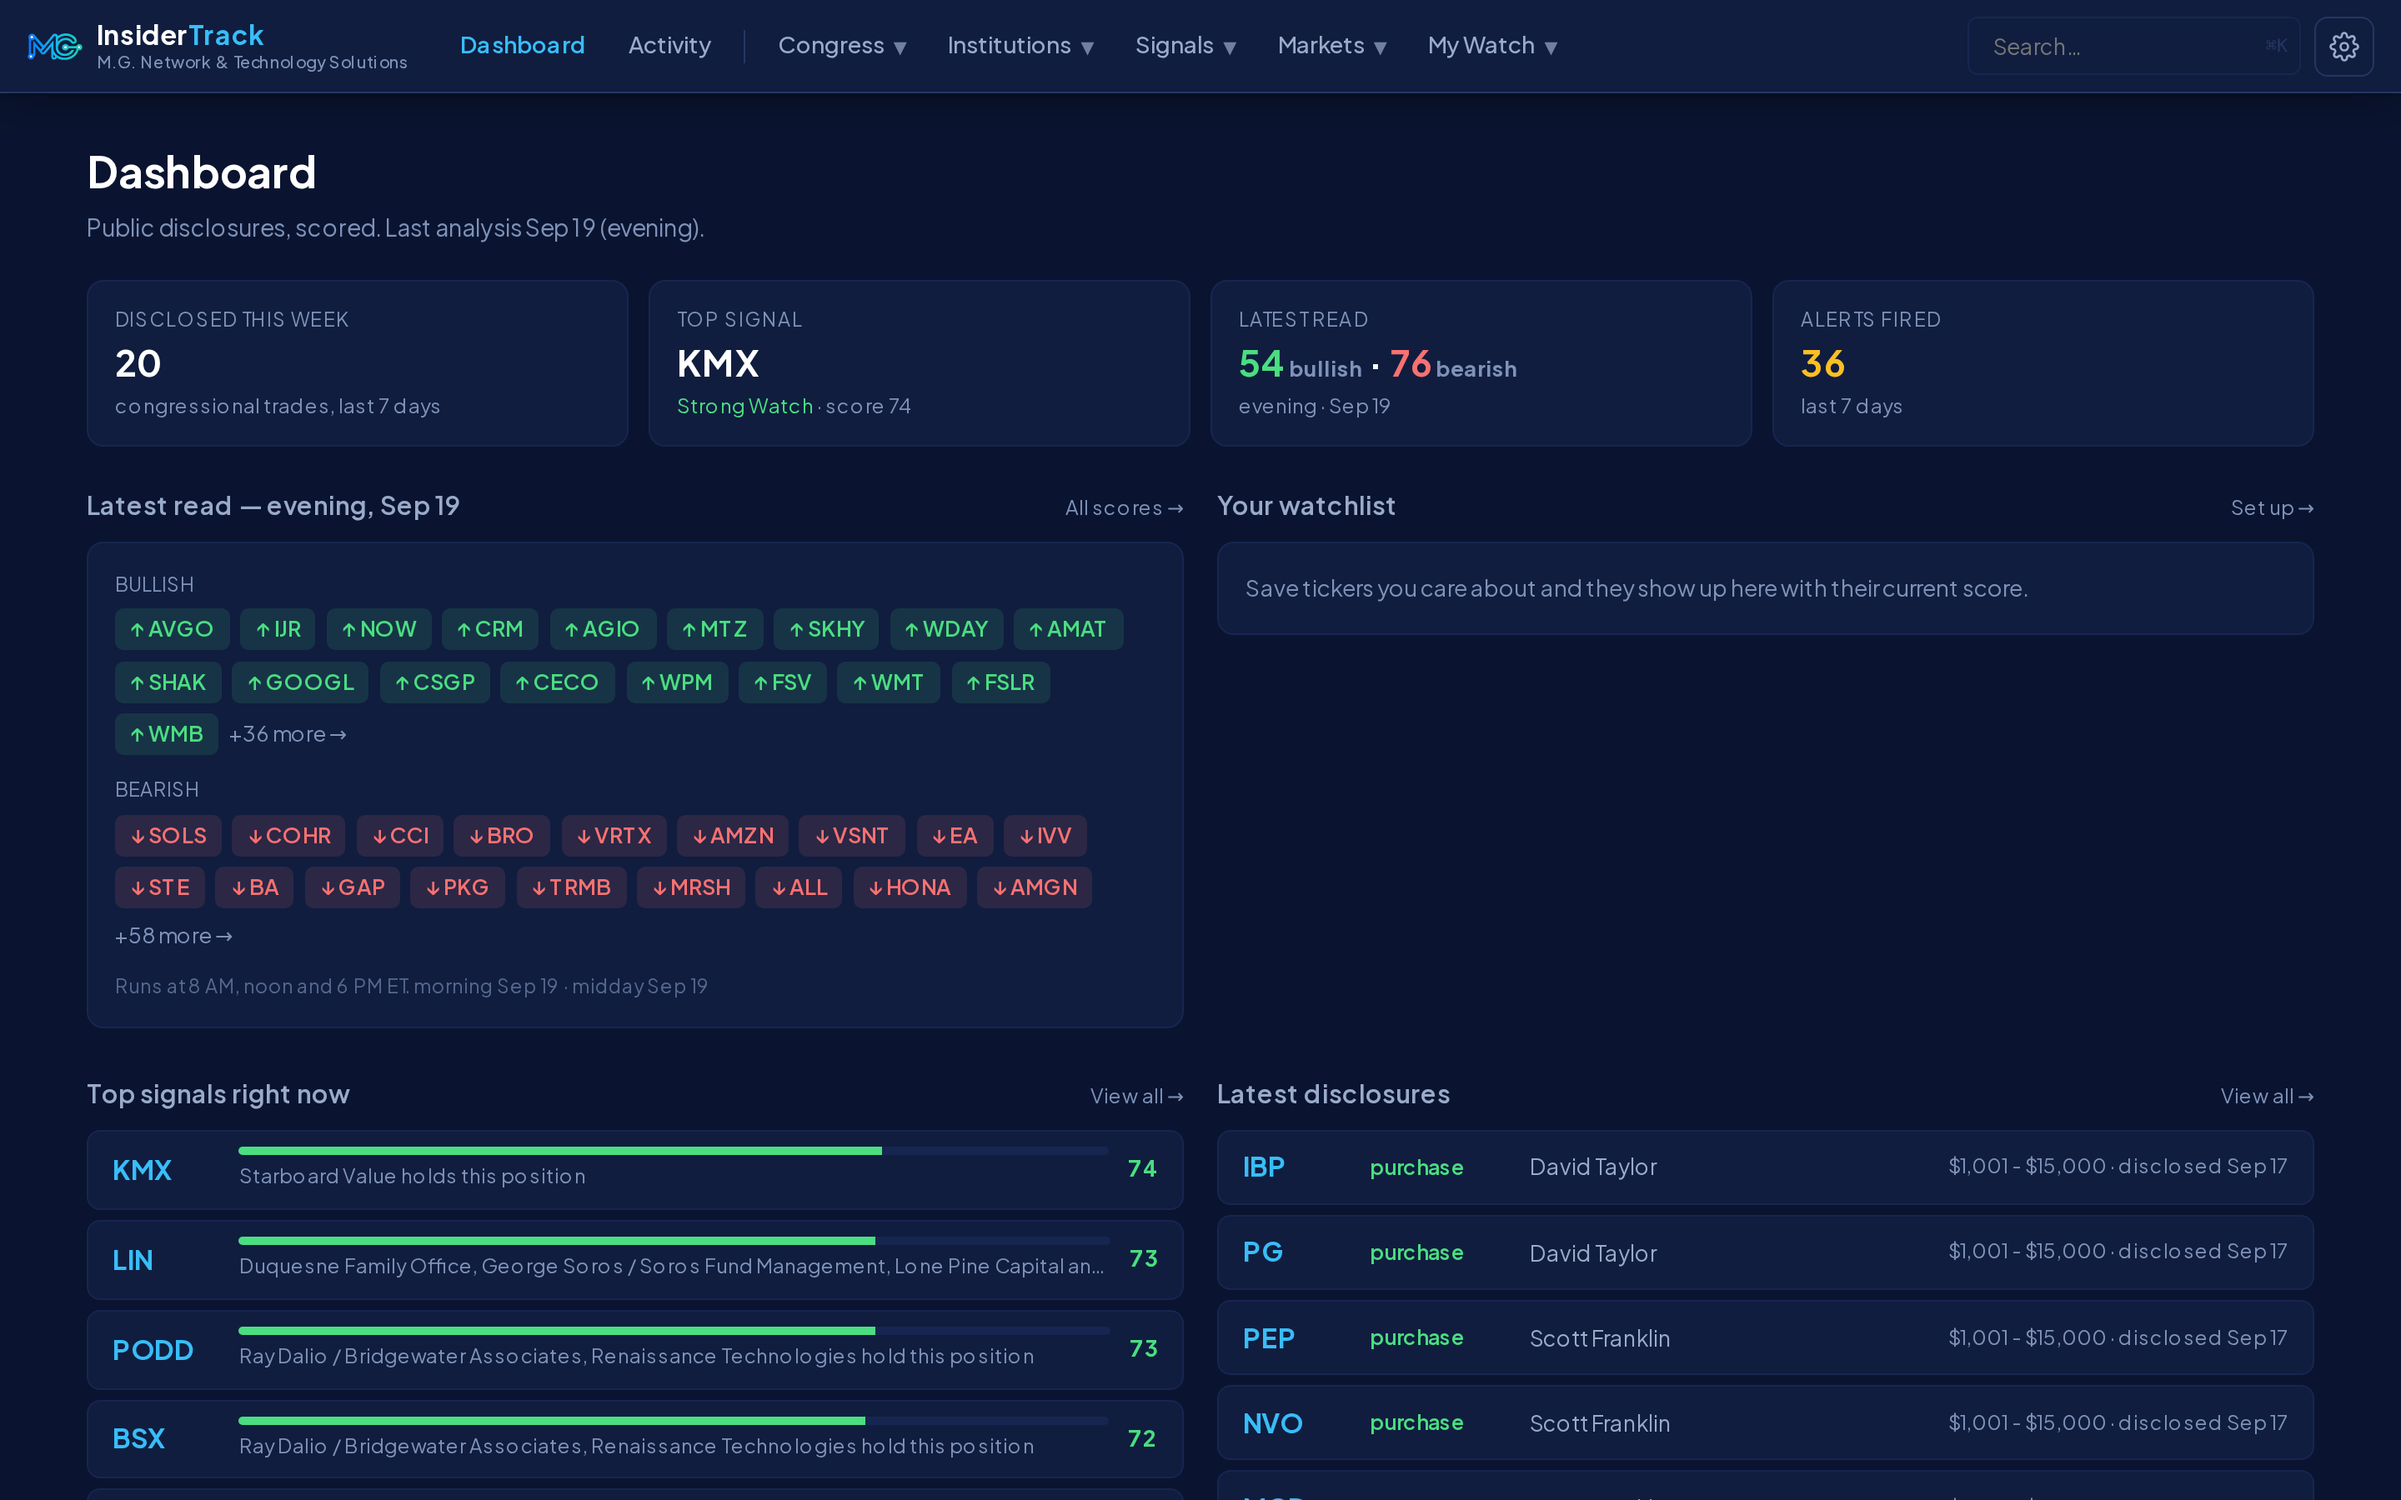
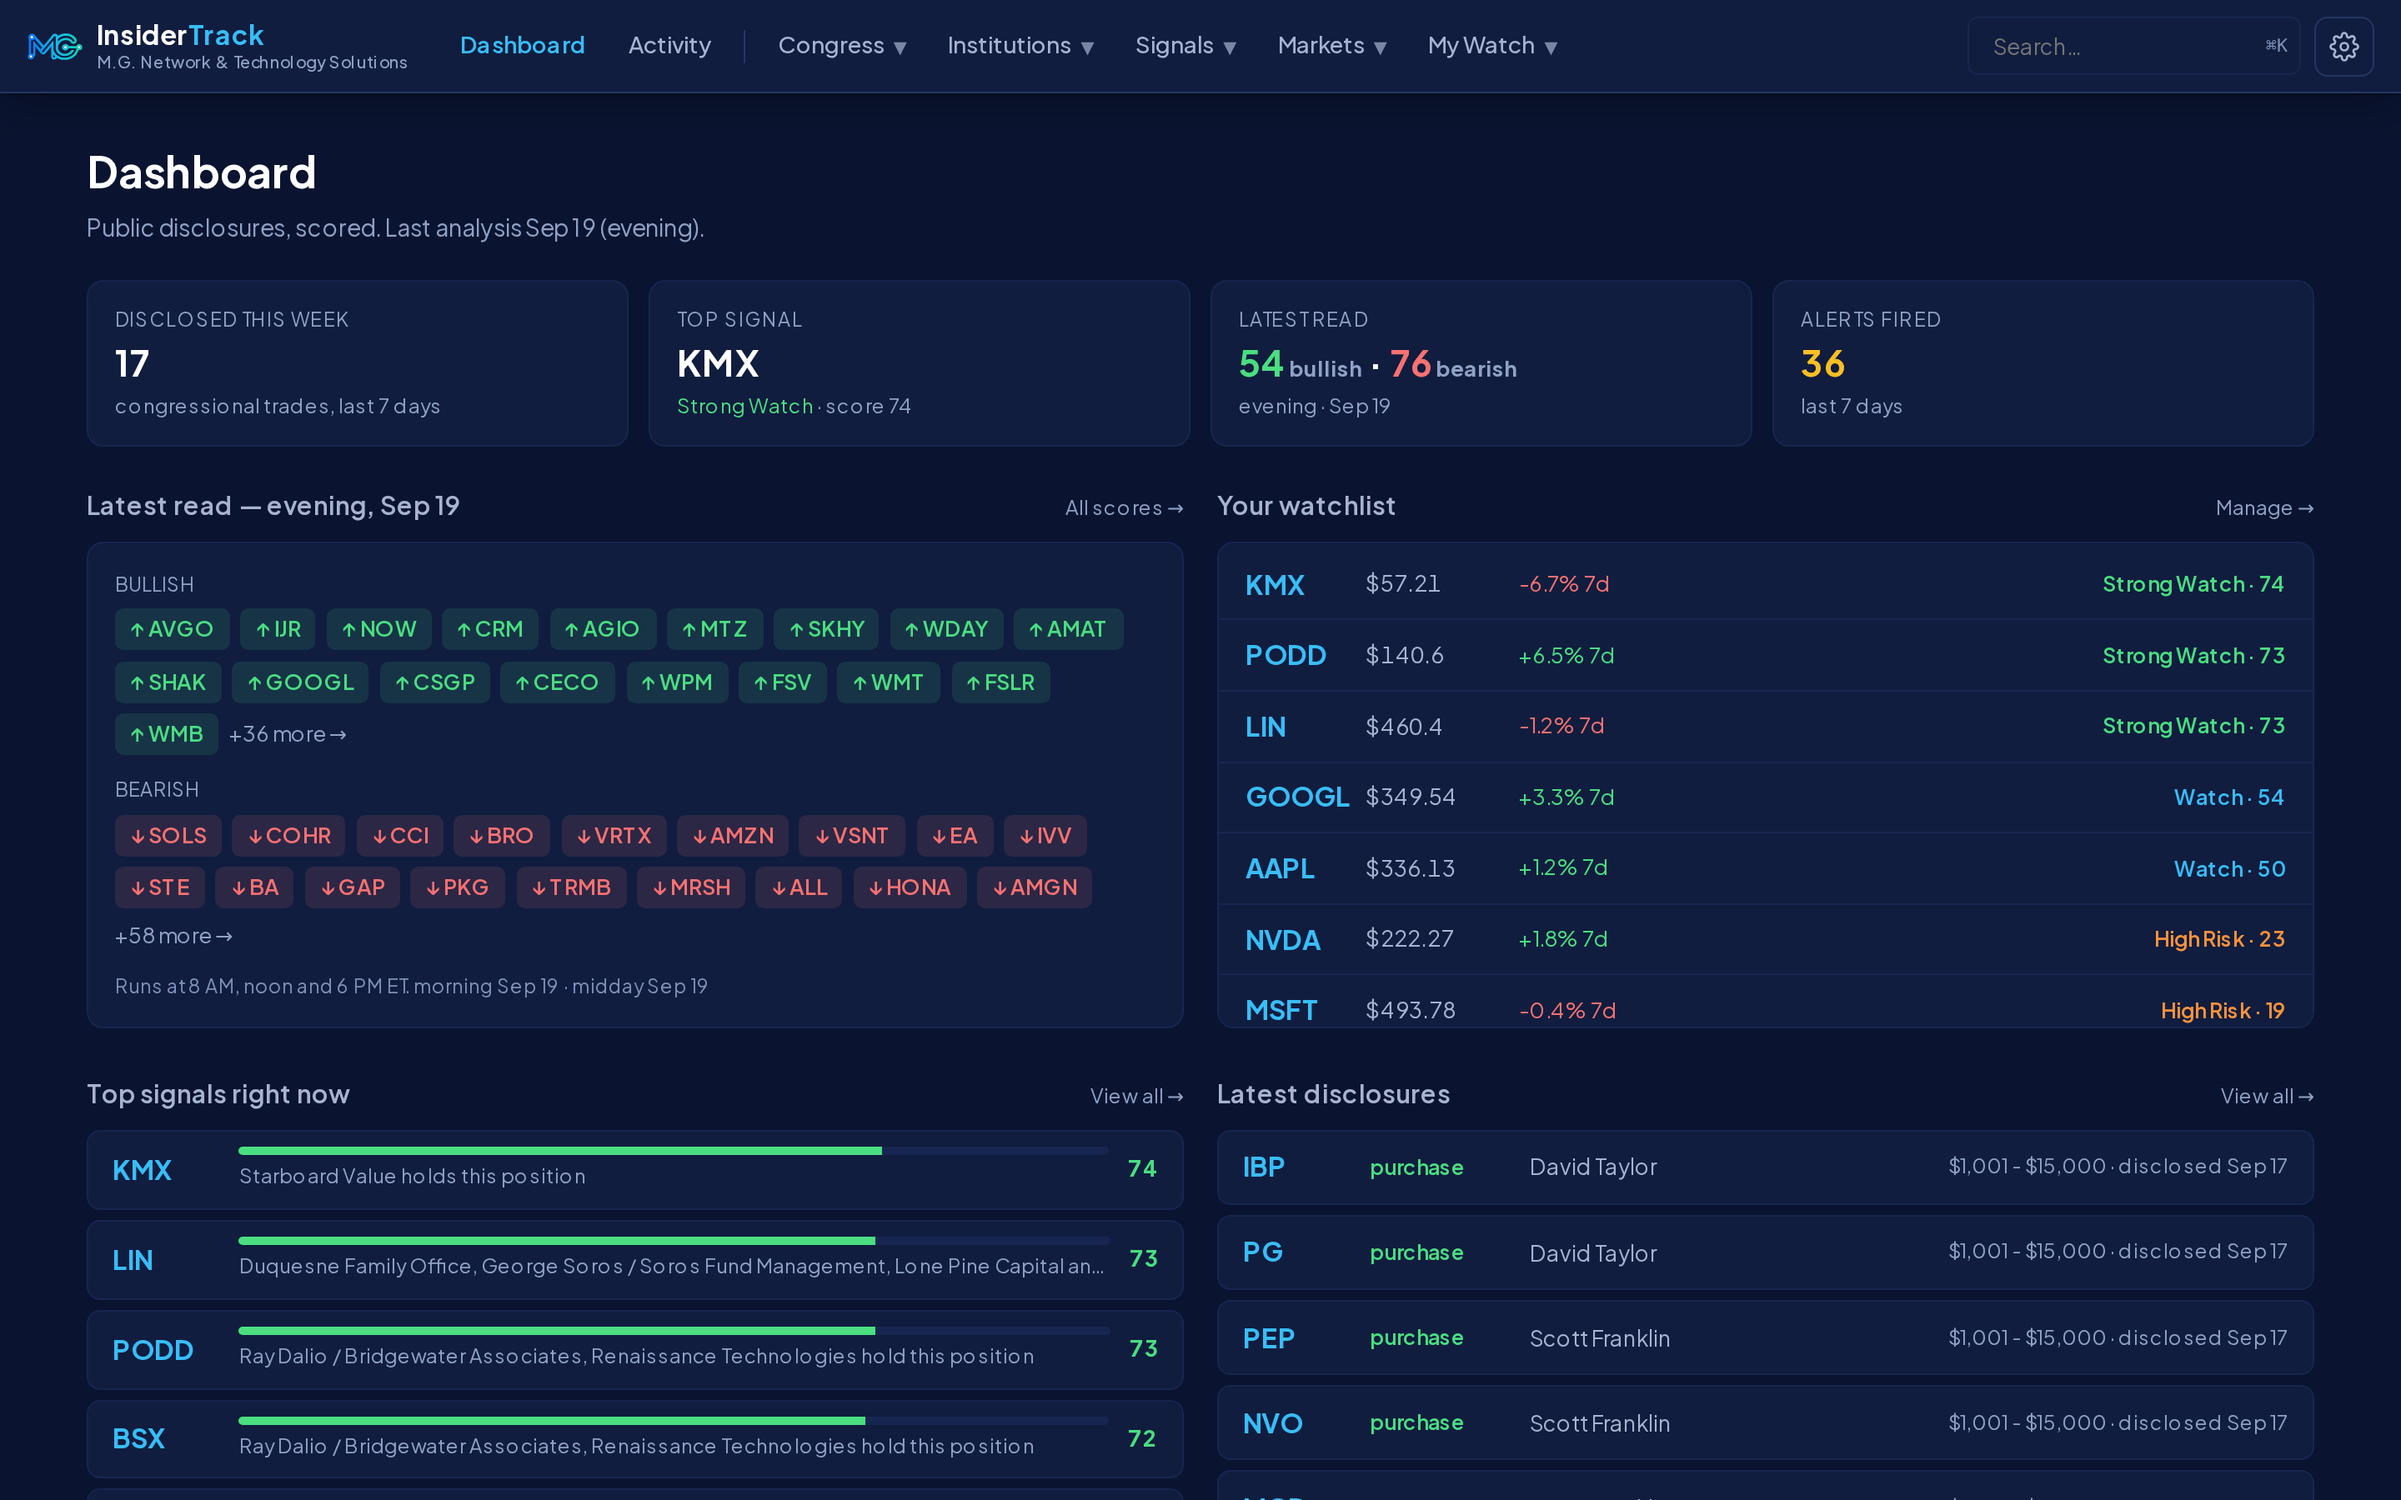
Docs: dashboard screenshots with a populated watchlist; social preview refreshed

diff --git a/README.md b/README.md
@@ -17,9 +17,9 @@ own machine from free public data sources; cloud AI providers are optional.
 
 **By M.G. Network and Technology Solutions.**
 
-![The Dashboard in dark mode: this week's disclosures, the top signal, the latest bullish/bearish read and alerts fired, then the latest analysis as ticker chips](design/screenshots/dashboard-dark.png)
+![The Dashboard in dark mode: this week's disclosures, the top signal, the latest bullish/bearish read and alerts fired; the latest analysis as ticker chips beside a watchlist with prices, 7-day change and each ticker's score; then top signals and latest disclosures](design/screenshots/dashboard-dark.png)
 
-<p align="center"><em>The Dashboard: what changed this week, the top signal, the latest read. Dark mode; light mode below.</em></p>
+<p align="center"><em>The Dashboard: what changed this week, the top signal, the latest read, your watchlist with each ticker's score. Dark mode; light mode below.</em></p>
 
 | | |
 |---|---|
